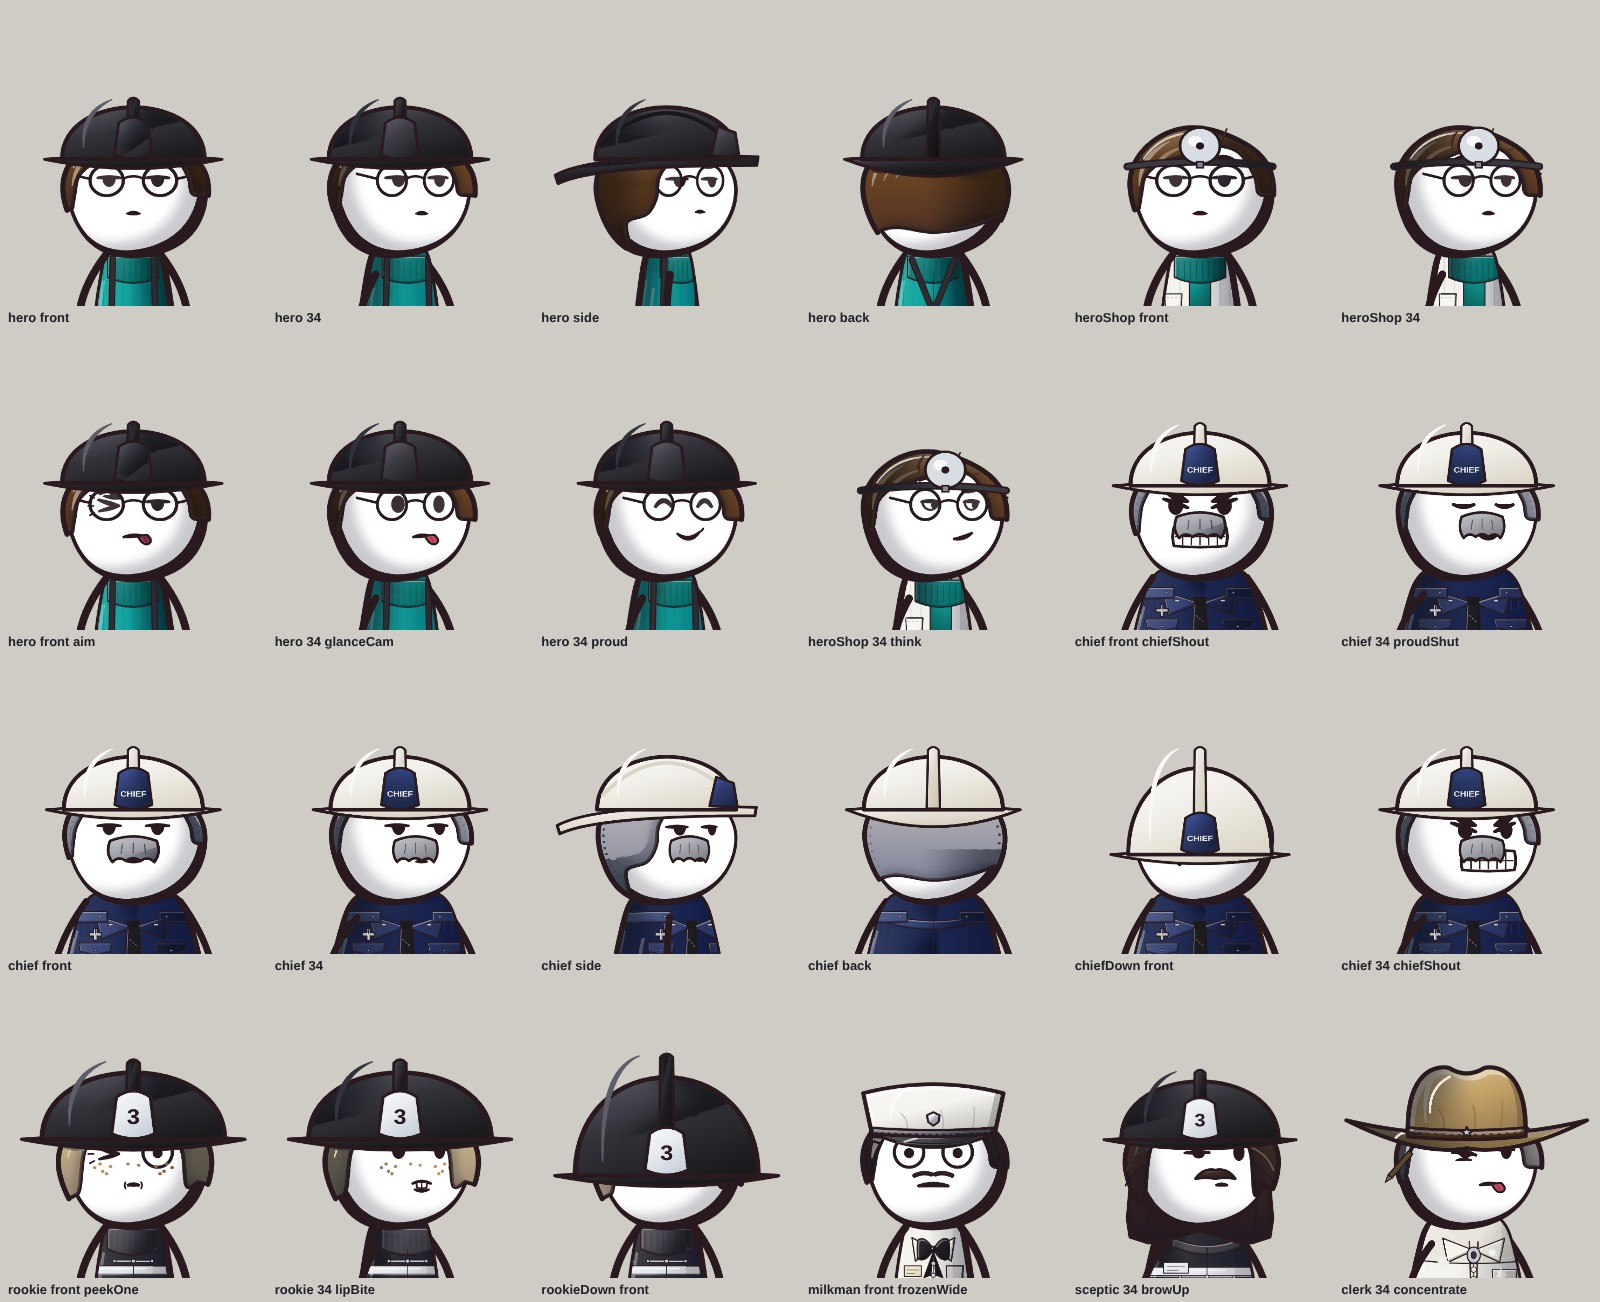
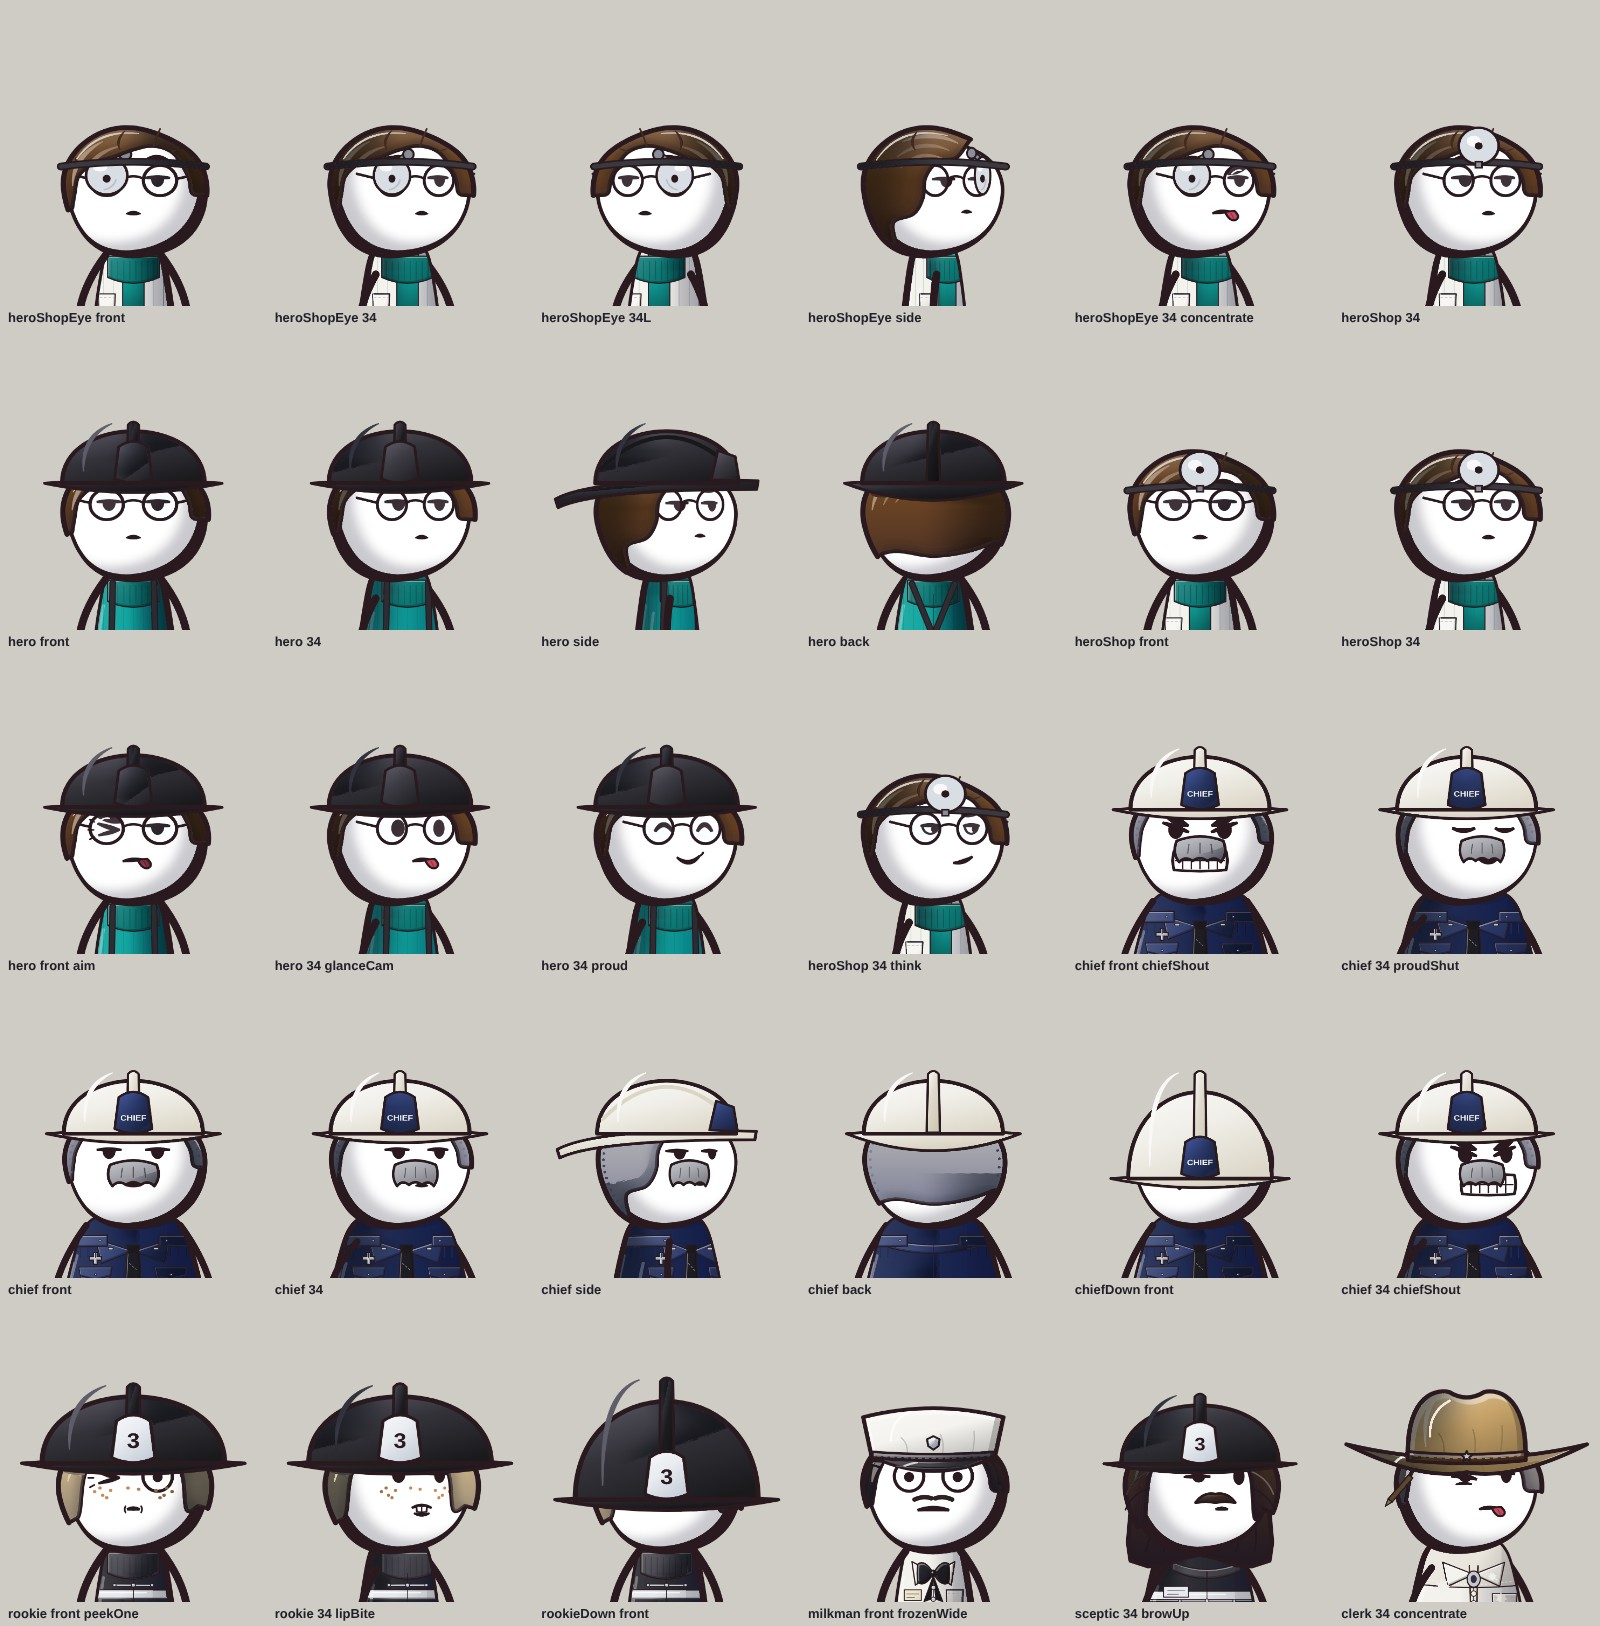
Yellow fire trucks: fix-round work in progress
Claude-Session: https://claude.ai/code/session_01DrjR3Ltb34YxYG9MboPX6s

diff --git a/episodes/yellow-fire-trucks/sets/map.js b/episodes/yellow-fire-trucks/sets/map.js
@@ -5,7 +5,10 @@
 //      "doors": { "at": 27.78, "wave": 2.4, "dur": 0.5 },      door wave west -> east from film second `at` (row 23); omitted = all open
 //      "paint": "lime" | "red" | "wave",                        "wave": a truck turns lime when its door has opened, plus `lime_delay` s (rows 24-25)
 //      "sand": 0..1  or  { "at": 32.3, "dur": 0.6 } } }          the paper round DALLAS turns to sand (S4 -> S5 join)
-// Returns anchors (plan metres, Z up, the kit maps them with ctx.B2T): map_centre, pine_hollow_station, dallas_label, dallas_station, door_row
+// FIX 2: setStation(i | 'CITY', { paint: 'lime' | 'red' | '#hex' | [noseA, noseB], door: 0..1 | [d0, d1] }) overrides that station on every later update;
+//   setStation(i, null) clears it; stations() lists { i, city, pos }. Instance j of a station's trucks = 2 * i + k (k 0 west, 1 east).
+//   metals: every metal material without an env map gets a small painted studio sky (brass read black in the kit); places.<name>.env: false = off.
+// Returns { anchors, update, setStation, stations }. Anchors (plan metres, Z up, the kit maps them with ctx.B2T): map_centre, pine_hollow_station, dallas_label, dallas_station, door_row
 // ([x, y, z, city] west -> east), highway_path (Pine Hollow -> Little Rock -> Texarkana -> DALLAS, on the paper), title_block, compass, cities{}.
 import { GLTFLoader } from '../assets_prod/vendor/GLTFLoader.js';
 const DIR = new URL('./map/out/', import.meta.url).href;
@@ -13,7 +16,13 @@ const META = await (await fetch(DIR + 'map_meta.json')).json();
 export const LIGHT = META.light;            // { map: {...} } for places.<name>.light_over (= map_api.KIT_LIGHT in Blender)
 export const ANCHORS = META.anchors;
 const LIME = '#E3EA22', RED = '#D3141C', STUCK = 'DENVER';
-let GL = null, TINY = null;
+let GL = null, TINY = null, ENV = null;
+function studioEnv(THREE) {                 // FIX 2: a painted sky + warm table horizon as the reflection (the same idea as prop_kit.js studioEnv)
+  if (ENV) return ENV; const c = document.createElement('canvas'); c.width = 256; c.height = 128; const x = c.getContext('2d'), gr = x.createLinearGradient(0, 0, 0, 128);
+  gr.addColorStop(0, '#e4eefa'); gr.addColorStop(.42, '#a9c2de'); gr.addColorStop(.5, '#f1e6cf'); gr.addColorStop(.58, '#8a6a4a'); gr.addColorStop(1, '#3a2c20');
+  x.fillStyle = gr; x.fillRect(0, 0, 256, 128); x.fillStyle = '#fffbea'; x.fillRect(40, 16, 30, 46); x.fillStyle = '#d8e6ff'; x.fillRect(168, 24, 14, 38);
+  ENV = new THREE.CanvasTexture(c); ENV.mapping = THREE.EquirectangularReflectionMapping; ENV.colorSpace = THREE.SRGBColorSpace; return ENV;
+}
 export async function build(THREE, scene, film, ctx) {
   const pl = ctx.place || {}, t0 = performance.now();
   GL ||= await new GLTFLoader().loadAsync(DIR + 'map_lite.glb'); TINY ||= await new GLTFLoader().loadAsync(DIR + 'map_truck_tiny.glb');
@@ -25,6 +34,7 @@ export async function build(THREE, scene, film, ctx) {
     if (!o.isMesh) return; meshes++; const g = o.geometry; tris += (g.index ? g.index.count : g.attributes.position.count) / 3;
     o.castShadow = !/^MAP_PAPER|^inset_|^table|^sand/.test(o.name); o.receiveShadow = true;
     const m = o.material; if (m.map) m.map.anisotropy = 8;
+    if (pl.env !== false && m.metalness > .3 && !m.envMap && !scene.environment) { m.envMap = studioEnv(THREE); m.envMapIntensity = 1.2; m.needsUpdate = true; }
     if (/^inset_/.test(o.name)) { m.polygonOffset = true; m.polygonOffsetFactor = -2; }
     if (/^sand_blend/.test(o.name)) { sand = o; m.transparent = true; m.depthWrite = false; m.polygonOffset = true; m.polygonOffsetFactor = -4; o.renderOrder = 2; }
   });
@@ -36,6 +46,7 @@ export async function build(THREE, scene, film, ctx) {
   TINY.scene.traverse(o => {
     if (!o.isMesh) return; const g = o.geometry.clone().applyMatrix4(o.matrixWorld); const m = o.material.clone(); const paint = /paint/.test(m.name);
     if (paint) { m.color.set('#ffffff'); m.roughness = .3; m.metalness = 0; }
+    if (pl.env !== false && m.metalness > .3 && !m.envMap && !scene.environment) { m.envMap = studioEnv(THREE); m.envMapIntensity = 1.2; }
     const im = new THREE.InstancedMesh(g, m, list.length); im.castShadow = true; im.receiveShadow = true; im.name = 'map_trucks_' + m.name;
     list.forEach((it, j) => { M.compose(ctx.B2T(it.p), Q, SC); im.setMatrixAt(j, M); if (paint) im.setColorAt(j, new THREE.Color(LIME)); });
     im.instanceMatrix.needsUpdate = true; scene.add(im); tris += (g.index ? g.index.count : g.attributes.position.count) / 3 * list.length; if (paint) parts.push(im);
@@ -43,15 +54,22 @@ export async function build(THREE, scene, film, ctx) {
   const xs = META.stations.map(s => s.pos[0]), x0 = Math.min(...xs), x1 = Math.max(...xs);
   const D = pl.doors || null, wave = D ? (D.wave ?? 2.4) : 0, dur = D ? (D.dur ?? .5) : 1;
   const open = (s, t) => !D ? 1 : Math.max(0, Math.min(1, (t - D.at - wave * (s.pos[0] - x0) / (x1 - x0)) / dur));
-  const cRed = new THREE.Color(RED), cLime = new THREE.Color(LIME);
+  const cRed = new THREE.Color(RED), cLime = new THREE.Color(LIME), OV = new Map();
+  const idx = i => typeof i === 'string' ? META.stations.findIndex(s => s.city === i) : i;
+  const setStation = (i, o) => { i = idx(i); if (i < 0 || i >= META.stations.length) return false; if (o === null) { OV.delete(i); for (const k of [0, 1]) for (const im of parts) im.setColorAt(2 * i + k, cLime); } else OV.set(i, { ...(OV.get(i) || {}), ...o }); return true; };
+  const stations = () => META.stations.map((s, i) => ({ i, city: s.city, pos: s.pos }));
   function update(f, t) {
     META.stations.forEach((s, i) => { const k = open(s, t); for (const d of [0, 1]) { const o = doors['door_' + String(i).padStart(2, '0') + '_' + d]; if (o) o.scale.y = Math.max(.03, 1 - (s.city === STUCK && d === 1 ? Math.min(k, .5) : k)); } });
     const mode = pl.paint || 'lime';
     if (parts.length && mode !== 'lime') list.forEach((it, j) => { const lime = mode === 'wave' ? open(it.s, t - (pl.lime_delay ?? .3)) >= 1 : false; for (const im of parts) im.setColorAt(j, lime ? cLime : cRed); });
+    for (const [i, o] of OV) {                 // FIX 2: per-station overrides (setStation)
+      if (o.door !== undefined) for (const d of [0, 1]) { const dd = doors['door_' + String(i).padStart(2, '0') + '_' + d], v = Array.isArray(o.door) ? o.door[d] : o.door; if (dd) dd.scale.y = Math.max(.03, 1 - v); }
+      if (o.paint !== undefined) for (const k of [0, 1]) { const v = Array.isArray(o.paint) ? o.paint[k] : o.paint, c = v === 'lime' ? cLime : v === 'red' ? cRed : new THREE.Color(v); for (const im of parts) im.setColorAt(2 * i + k, c); }
+    }
     for (const im of parts) if (im.instanceColor) im.instanceColor.needsUpdate = true;
     if (sand) { const v = typeof pl.sand === 'object' && pl.sand ? Math.max(0, Math.min(1, (t - pl.sand.at) / (pl.sand.dur || .6))) : (pl.sand || 0); sand.visible = v > 0; sand.material.opacity = v; }
   }
   update(0, 0);
   console.warn('PHFD_MAP ' + JSON.stringify({ meshes, stations: META.stations.length, trucks: list.length, tris: Math.round(tris), load_ms: Math.round(performance.now() - t0) }));
-  return { anchors: ANCHORS, update };
+  return { anchors: ANCHORS, update, setStation, stations };
 }

diff --git a/episodes/yellow-fire-trucks/assets_prod/scripts/bl_toy.py b/episodes/yellow-fire-trucks/assets_prod/scripts/bl_toy.py
@@ -1,0 +1,59 @@
+# bl_toy.py: the pressed-tin TOY truck (props-hero round 3, 2026-11-21; PROPS line "Red toy truck"), made from out/truck_light.blend (the ALF by
+# robinmikart, CC-BY 4.0) at 18 cm: gag gear, ribbon and glass dropped, textures shrunk to 128 px (an 18 cm toy never needs more), decimated to
+# ~14 k tris; toy marks: folded tin TABS along the body seams, the front-right HUBCAP missing (bare axle stub), the ladder BENT (rear end down 8 deg).
+# Out: toy_truck.glb (kit, assets.js buildToyTruck, preloaded: small) + toy_truck.blend (final). Frame: metres at TOY size, front -X, Z up, origin on the ground.
+# blender -b --factory-startup --python bl_toy.py -- <out dir>
+import bpy, sys, os, math, json, bmesh
+from mathutils import Vector, Matrix
+OUT = sys.argv[sys.argv.index('--') + 1:][0]
+bpy.ops.wm.open_mainfile(filepath=os.path.join(OUT, 'truck_light.blend'))
+col = bpy.data.collections['TRUCK']; root = bpy.data.objects['TRUCK']
+def walk(o):
+    yield o
+    for c in o.children: yield from walk(c)
+kill = set()
+for o in col.objects:
+    nm = o.name.split('.')[0]
+    if nm.startswith(('siren_', 'beacon_bar', 'anchor_')) or (o.type == 'MESH' and any(m and m.name in ('Glass',) for m in o.data.materials)):
+        for c in walk(o): kill.add(c)
+hub = None
+for o in col.objects:   # the missing hubcap: the chrome cap of the front-right wheel
+    if o.type == 'MESH' and o.parent and o.parent.name.startswith('wheel_FR') and any(m and m.name == 'truckwheel_chrome' for m in o.data.materials): kill.add(o); hub = o.name
+for o in kill: bpy.data.objects.remove(o)
+ms = [o for o in col.objects if o.type == 'MESH']
+for o in ms:
+    if len(o.data.polygons) > 200:
+        m = o.modifiers.new('dec', 'DECIMATE'); m.ratio = 0.33; m.use_collapse_triangulate = True
+bpy.context.view_layer.update(); dg = bpy.context.evaluated_depsgraph_get()
+for o in ms:
+    if o.modifiers: me = bpy.data.meshes.new_from_object(o.evaluated_get(dg)); o.modifiers.clear(); o.data = me
+for im in bpy.data.images:
+    if im.size[0] > 128: im.scale(128, 128)
+# tin tabs: little folded strips at the body seams, both sides (pressed-tin toys are held together by them)
+TIN = bpy.data.materials.new('toy_tin_tab'); TIN.use_nodes = True; b = next(n for n in TIN.node_tree.nodes if n.type == 'BSDF_PRINCIPLED')
+b.inputs['Base Color'].default_value = (0.55, 0.55, 0.57, 1); b.inputs['Metallic'].default_value = 1.0; b.inputs['Roughness'].default_value = 0.35
+dg = bpy.context.evaluated_depsgraph_get(); sc = bpy.context.scene; ntab = 0
+for x in (-2.2, -0.9, 0.6, 2.0, 3.1):
+    for s in (-1, 1):
+        hit, loc, nrm, *_ = sc.ray_cast(dg, Vector((x, s * 4, 1.05)), Vector((0, -s, 0)))
+        if not hit: continue
+        bm = bmesh.new(); bmesh.ops.create_cube(bm, size=1.0); bmesh.ops.scale(bm, vec=(0.22, 0.05, 0.32), verts=bm.verts)
+        me = bpy.data.meshes.new('toy_tab'); bm.to_mesh(me); bm.free(); t = bpy.data.objects.new('toy_tab', me); me.materials.append(TIN)
+        col.objects.link(t); t.parent = root; t.location = loc + Vector((0, s * 0.02, 0)); t.rotation_euler.y = 0.12 * s; ntab += 1
+lad = [o for o in col.objects if o.type == 'MESH' and o.get('orig_parent', '').startswith(('Cube.311', 'Plane.004'))]   # the ladder / hose bed top (canvas)
+for o in lad:   # bent: the rear end pushed down 8 degrees about its front edge
+    xs = [v.co.x for v in o.data.vertices]; x0 = min(xs)
+    for v in o.data.vertices: v.co.z -= math.tan(math.radians(8)) * (v.co.x - x0) * 0.35
+K = 0.18 / 7.59
+root.scale = (K, K, K); bpy.context.view_layer.update()
+tris = 0
+for o in col.objects:
+    if o.type == 'MESH': o.data.calc_loop_triangles(); tris += len(o.data.loop_triangles)
+bpy.ops.object.select_all(action='DESELECT')
+for o in col.objects: o.select_set(True)
+glb = os.path.join(OUT, 'toy_truck.glb'); tmp = glb[:-4] + '_tmp.glb'
+bpy.ops.export_scene.gltf(filepath=tmp, export_format='GLB', use_selection=True, export_extras=True, export_yup=True, export_apply=True, export_cameras=False, export_lights=False)
+os.replace(tmp, glb)
+col.name = 'TOY_TRUCK'; bpy.ops.file.pack_all(); bpy.ops.wm.save_as_mainfile(filepath=os.path.join(OUT, 'toy_truck.blend'), compress=True, copy=True)
+print('TOY tris %d tabs %d hubcap_removed %s ladder_parts %d GLB %.2f MB' % (tris, ntab, hub, len(lad), os.path.getsize(glb) / 1e6))
+print('TOY_DONE')
